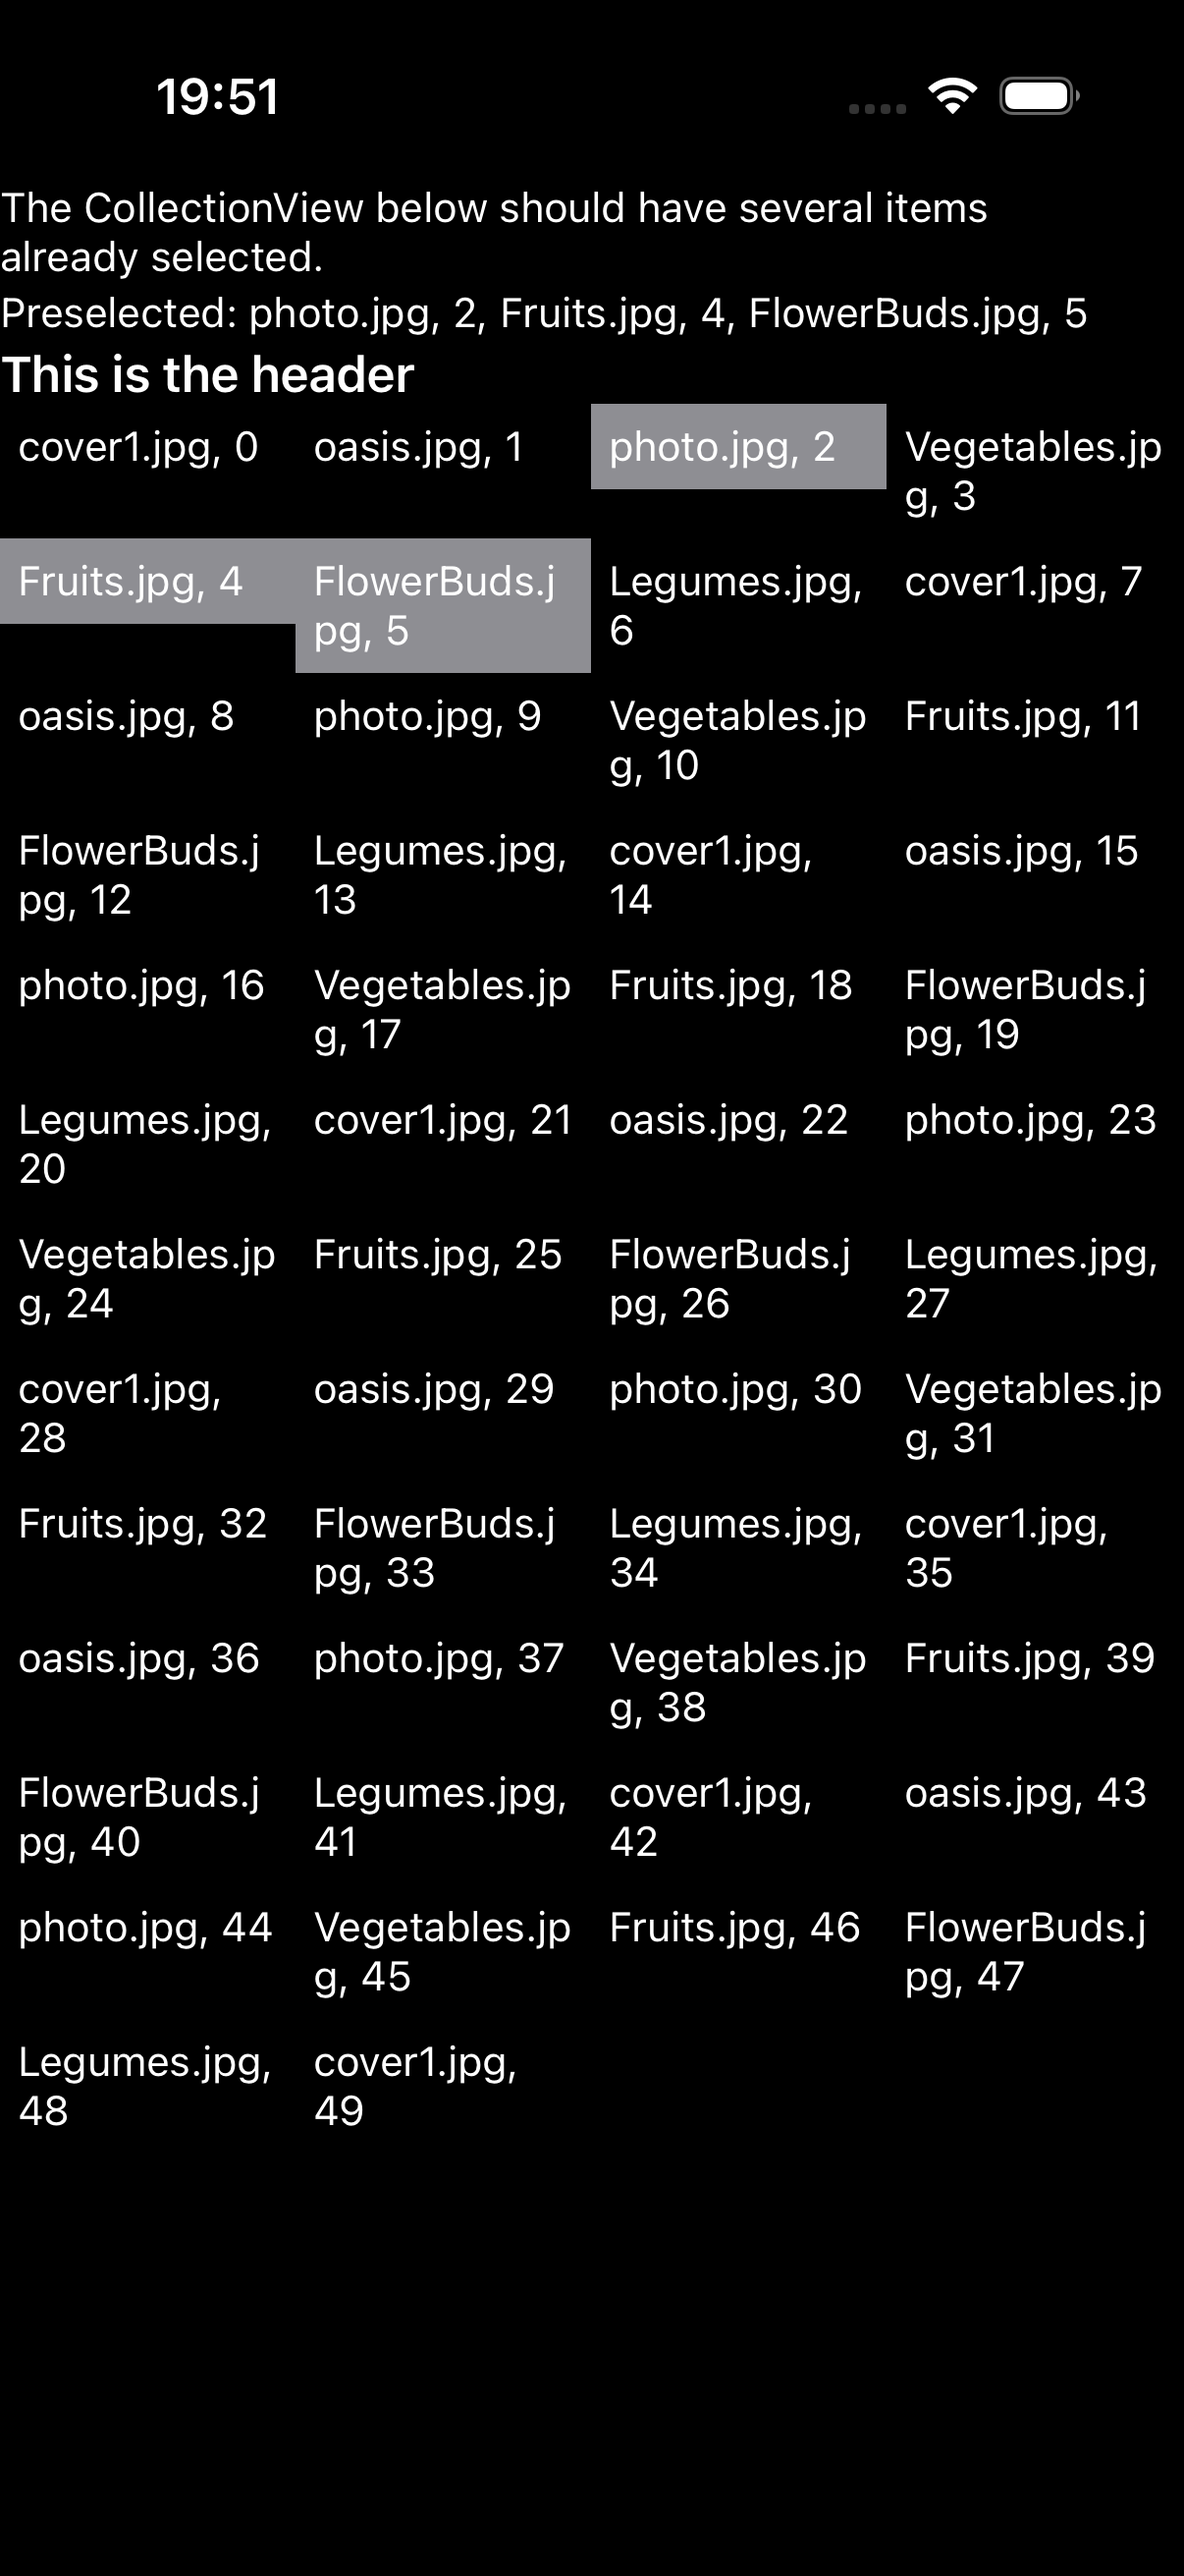
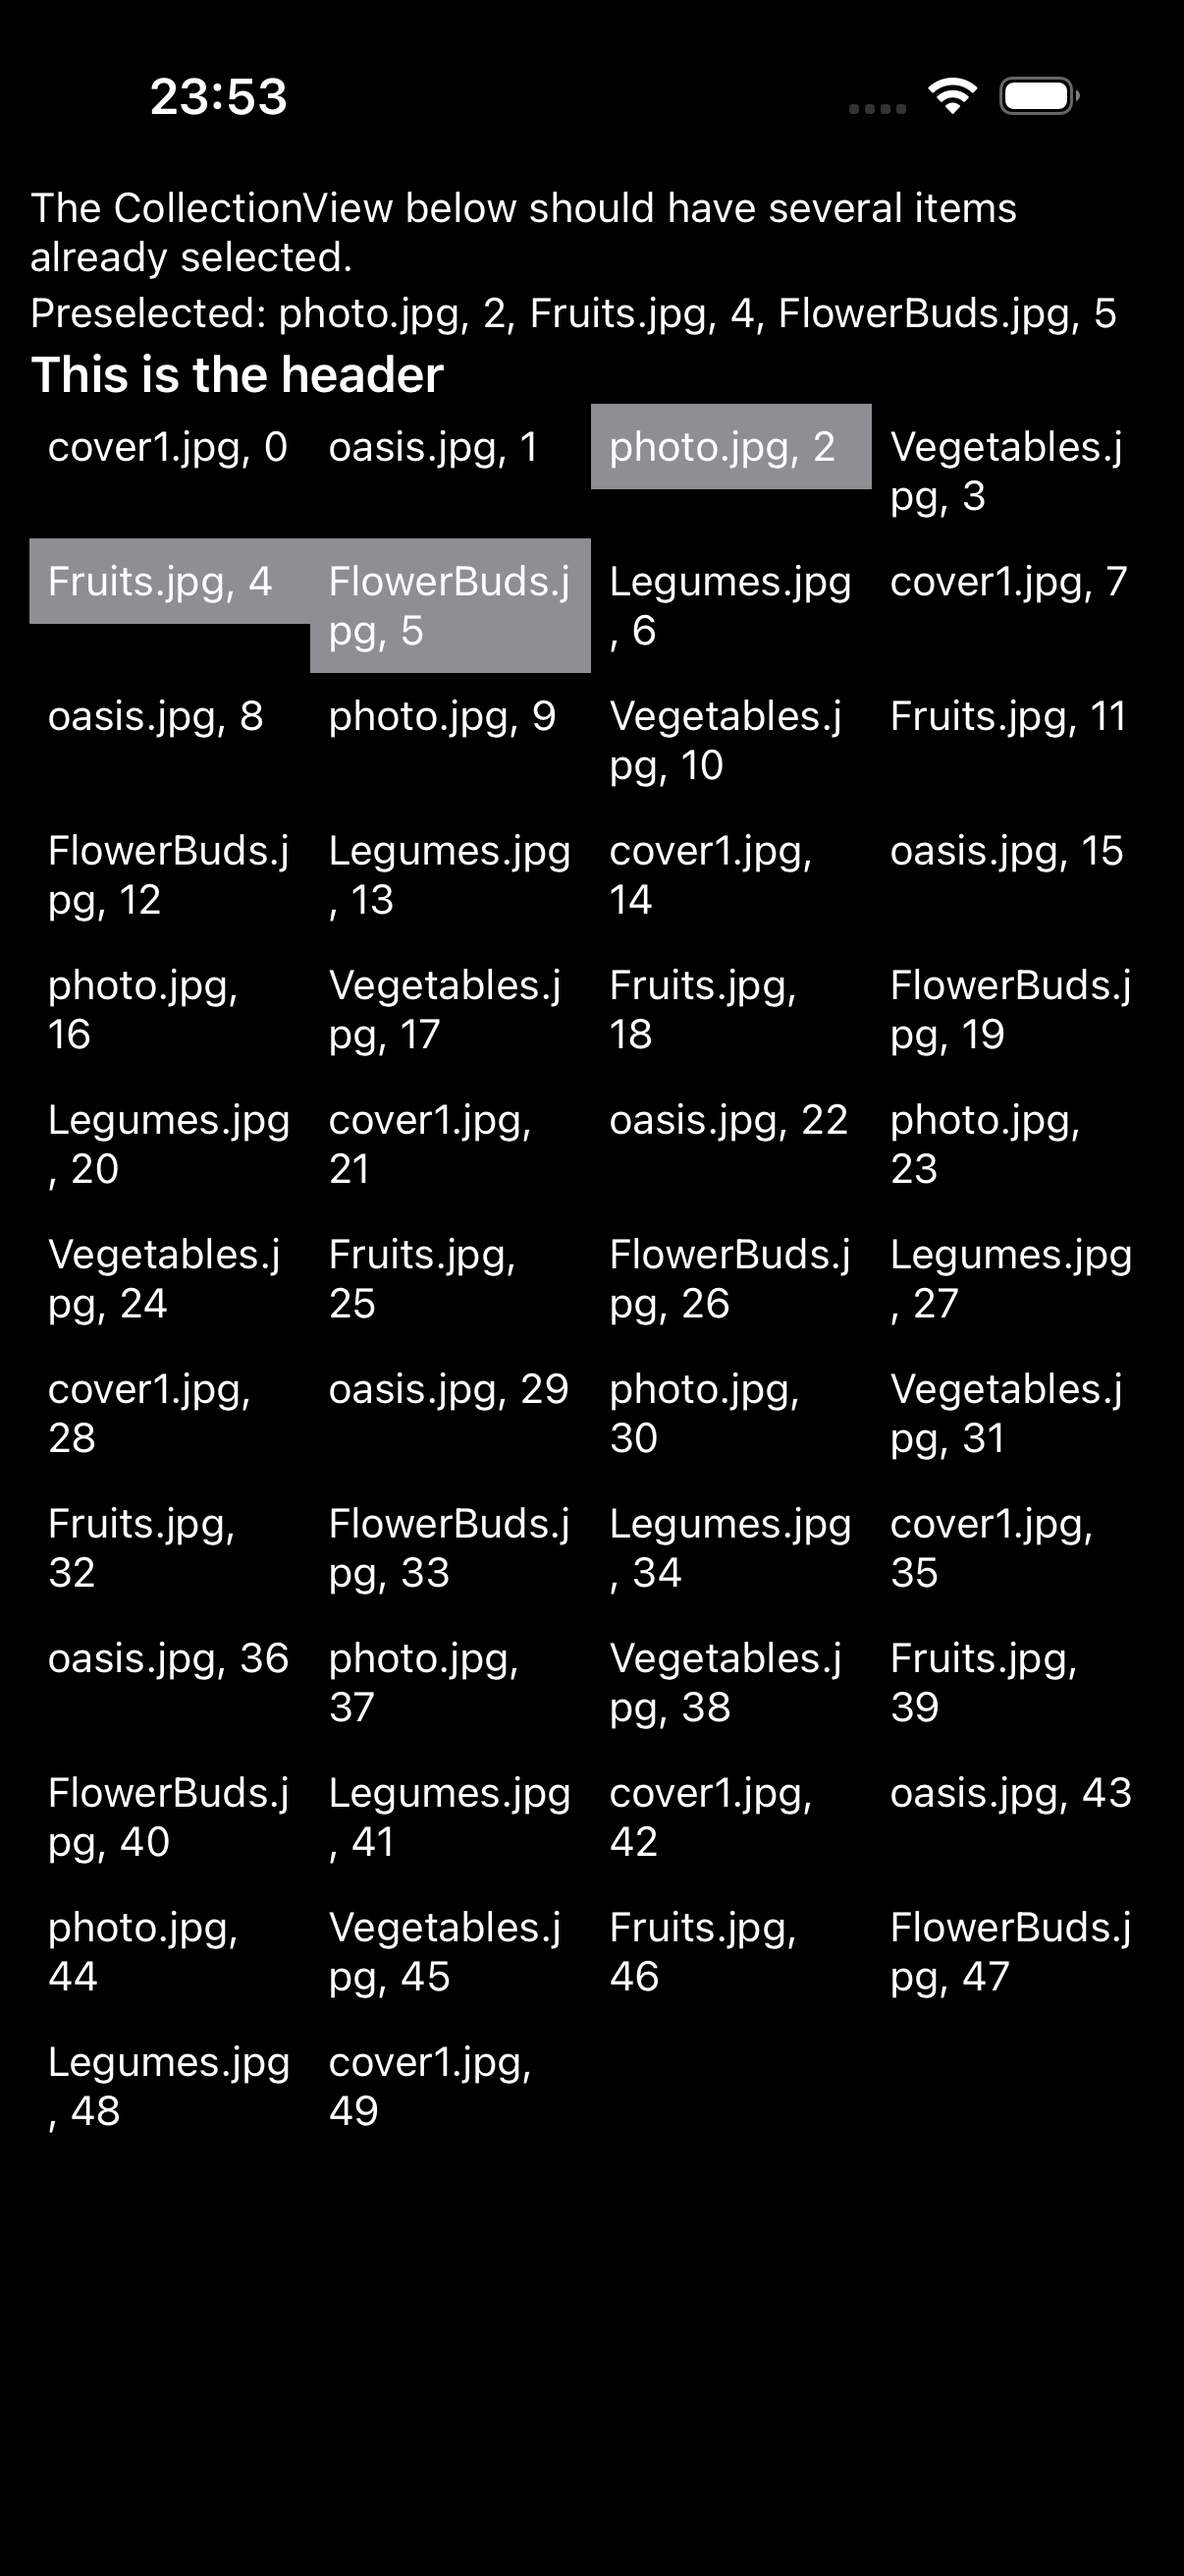
fix(gallery): preselected_items code-first page missing shared-XAML StackLayout Margin=10
The cpp preselected_items page set Spacing but not the shared XAML's <StackLayout Margin=10>,
so its grid cells sat flush-left vs MAUI's inset — shifting every cell left and changing the
per-cell text wrapping (Vegetables.j|pg vs Vegetables.jp|g). Added stack Margin=10. cpp 7.76%
RED -> 0.02% GREEN (both columns green now). Same class as the border/radio root-inset fixes;
structure test unaffected (preselected_items stays known_diverging on the StackLayout-vs-VSL
type). Captures + comparison.json + README refreshed.

diff --git a/port/cpp/examples/gallery/pages/preselected_items_page.hpp b/port/cpp/examples/gallery/pages/preselected_items_page.hpp
@@ -67,6 +67,7 @@ namespace maui::samples
         {
             page_.set_title("Preselected Items");
             stack_.set_spacing(2);
+            stack_.set_margin(maui::core::thickness{10}); // shared XAML: <StackLayout Margin="10" Spacing="2">
 
             instructions_.set_text("The CollectionView below should have several items already selected.");
 

diff --git a/port/cpp/docs/comparison/README.md b/port/cpp/docs/comparison/README.md
@@ -11,9 +11,9 @@ Real .NET MAUI (native-default) vs the C++ port vs the compile-time-XAML gallery
 
 | Classification | Sonnet 5 — C++ (C1/C3) | Sonnet 5 — C++ &amp; XAML (C2/C4) | Gemini — C++ | Pixel-Perfect Score — C++ (C1/C3) | Pixel-Perfect Score — C++ &amp; XAML (C2/C4) |
 | --- | --- | --- | --- | --- | --- |
-| 🟢 Match | 167 | 0 | 0 | 125 | 140 |
+| 🟢 Match | 167 | 0 | 0 | 126 | 140 |
 | 🟡 Minor | 4 | 0 | 0 | 37 | 24 |
-| 🔴 Major | 0 | 0 | 0 | 10 | 8 |
+| 🔴 Major | 0 | 0 | 0 | 9 | 8 |
 | ⬛ Blank | 1 | 0 | 0 | 0 | 0 |
 | ⏳ Unreviewed | 0 | 172 | 172 | 0 | 0 |
 
@@ -3249,9 +3249,9 @@ _Not yet reviewed._
 
 _Not yet reviewed._
 
-#### 🔴 Pixel-Perfect Score — C++ (C1/C3)
+#### 🟢 Pixel-Perfect Score — C++ (C1/C3)
 
-Light: SSIM 0.8062, 7.76% pixels differ · Dark: SSIM 0.8030, 7.74% pixels differ
+Light: SSIM 0.9997, 0.02% pixels differ · Dark: SSIM 0.9992, 0.04% pixels differ
 
 #### 🟢 Pixel-Perfect Score — C++ &amp; XAML (C2/C4)
 
